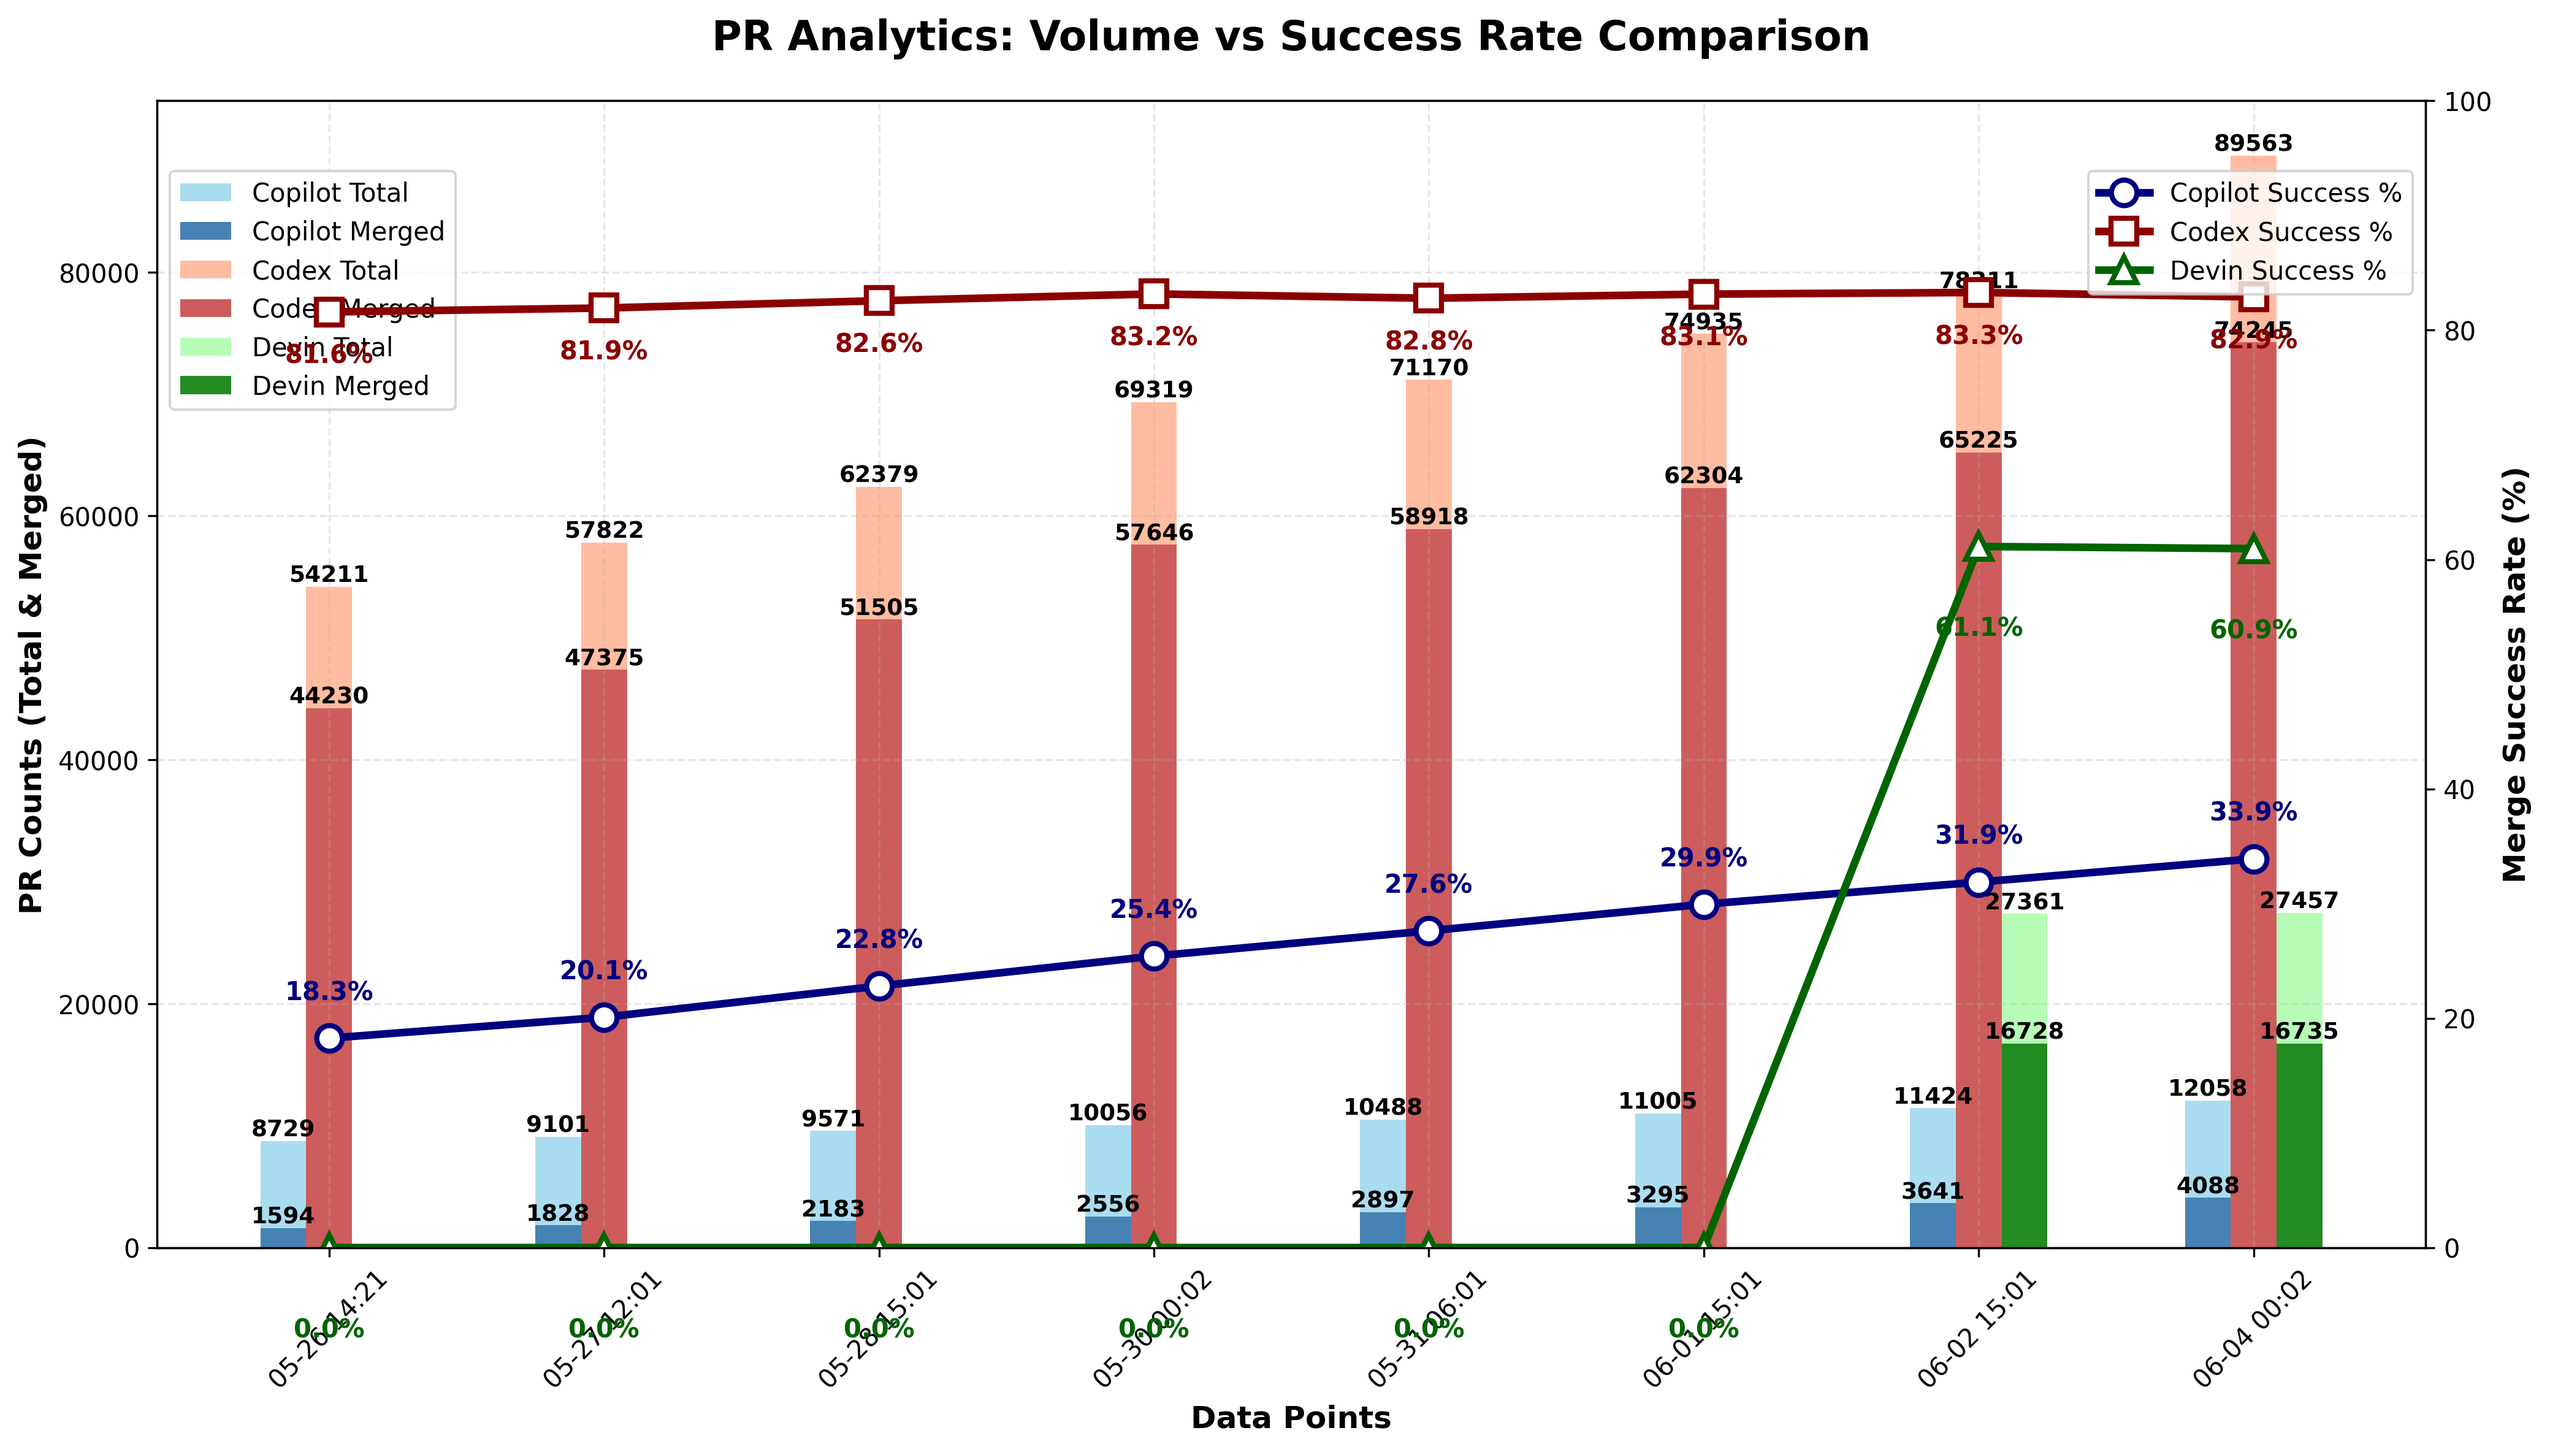
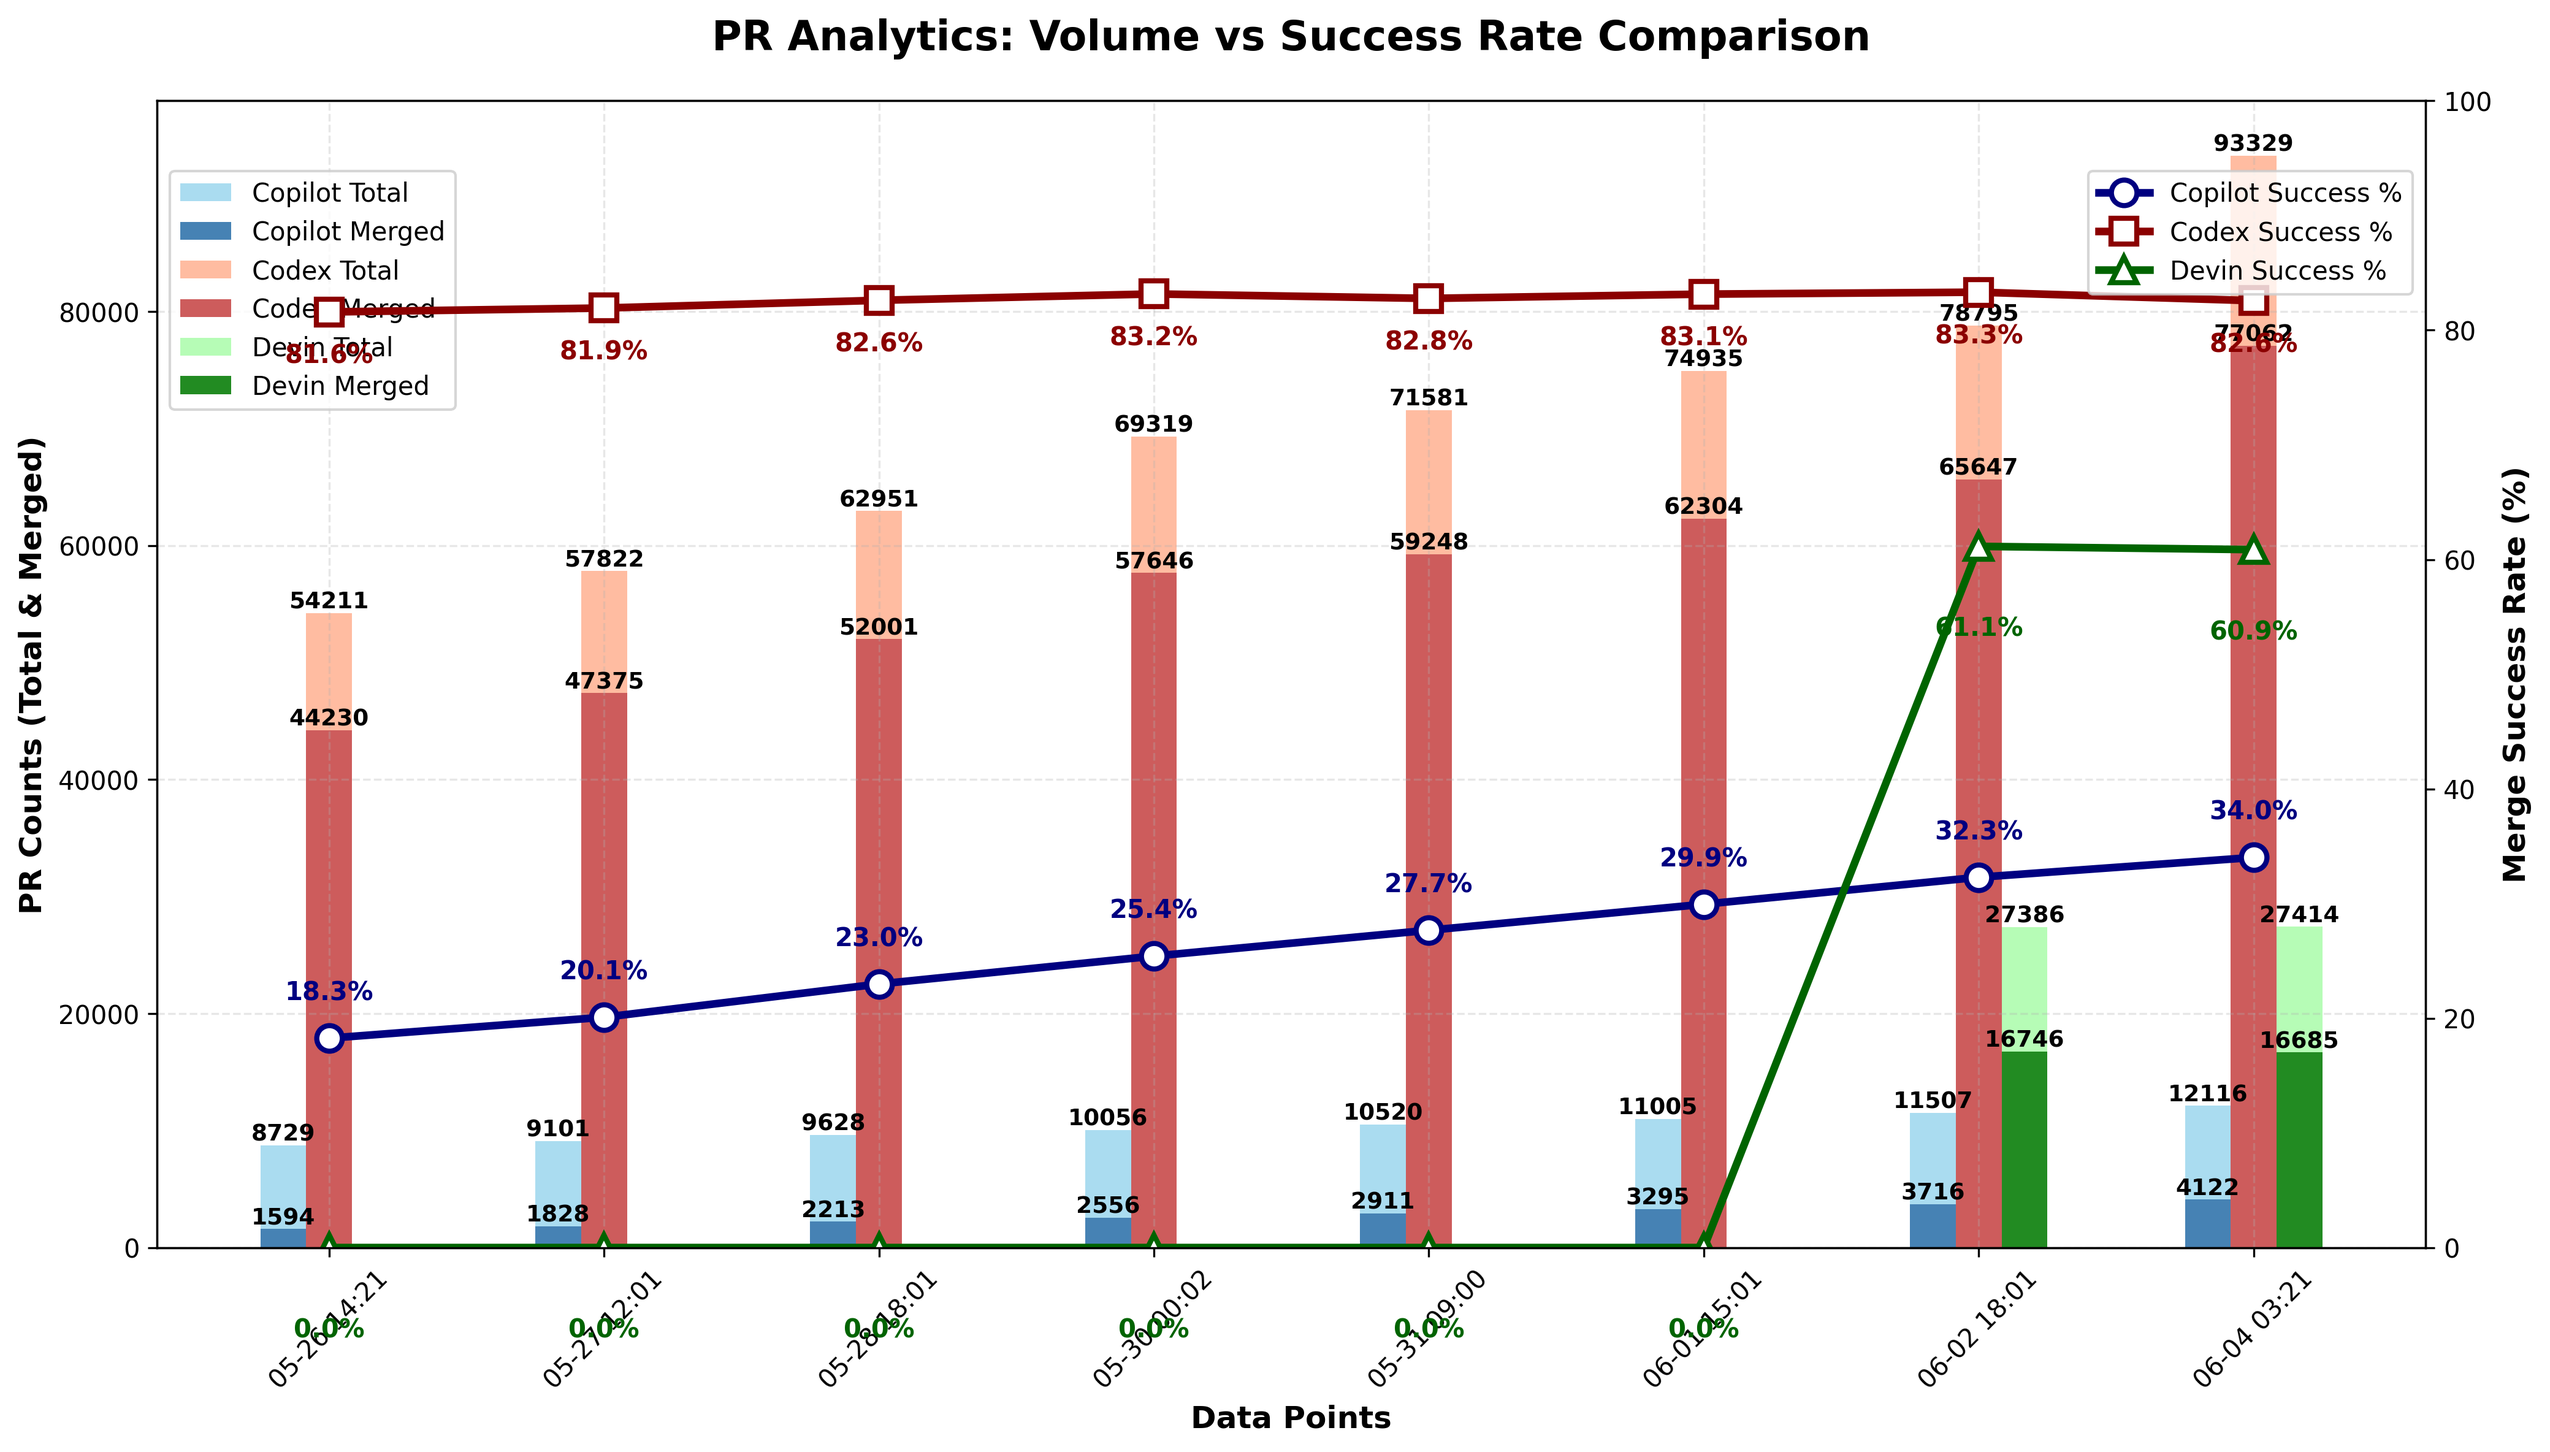
chore: update PR‑approval chart

diff --git a/docs/index.html b/docs/index.html
@@ -46,22 +46,22 @@
                 <tbody>
                     <tr>
                         <td>Copilot</td>
-                        <td>12,058</td>
-                        <td>4,088</td>
-                        <td>33.90%</td>
+                        <td>12,116</td>
+                        <td>4,122</td>
+                        <td>34.02%</td>
                     </tr>
                     <tr>
                         <td>Codex</td>
-                        <td>89,563</td>
-                        <td>74,245</td>
-                        <td>82.90%</td>
+                        <td>93,329</td>
+                        <td>77,062</td>
+                        <td>82.57%</td>
                     </tr>
                 </tbody>
             </table>
         </section>
 
         <footer>
-            <p>Last updated: <span id="last-updated">June 04, 2025 00:02 UTC</span></p>
+            <p>Last updated: <span id="last-updated">June 04, 2025 03:21 UTC</span></p>
             <p><a href="https://github.com/aavetis/ai-pr-watcher">View on GitHub</a></p>
         </footer>
     </div>

diff --git a/README.md b/README.md
@@ -21,6 +21,6 @@ Explore the GitHub search queries used:
 
 | Project | Total PRs | Merged PRs | Merge Rate |
 | ------- | --------- | ---------- | ---------- |
-| Copilot | 12,058 | 4,088 | 33.90% |
-| Codex   | 89,563 | 74,245 | 82.90% |
-| Devin   | 27,457 | 16,735 | 60.95% |
+| Copilot | 12,116 | 4,122 | 34.02% |
+| Codex   | 93,329 | 77,062 | 82.57% |
+| Devin   | 27,414 | 16,685 | 60.86% |
